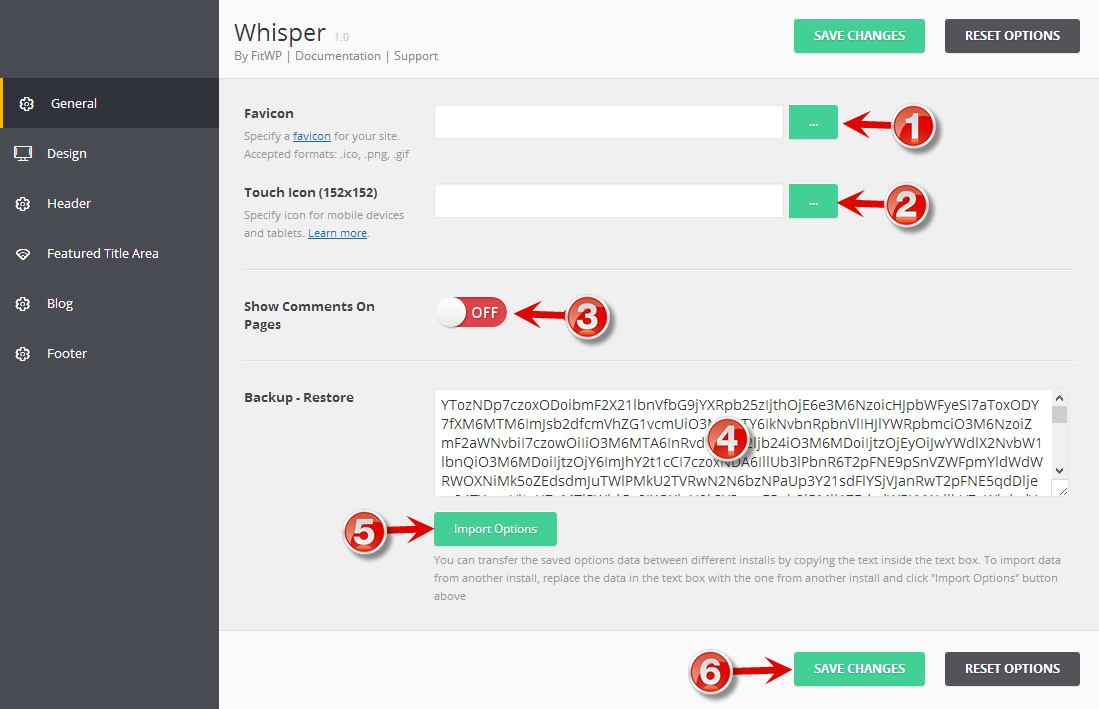
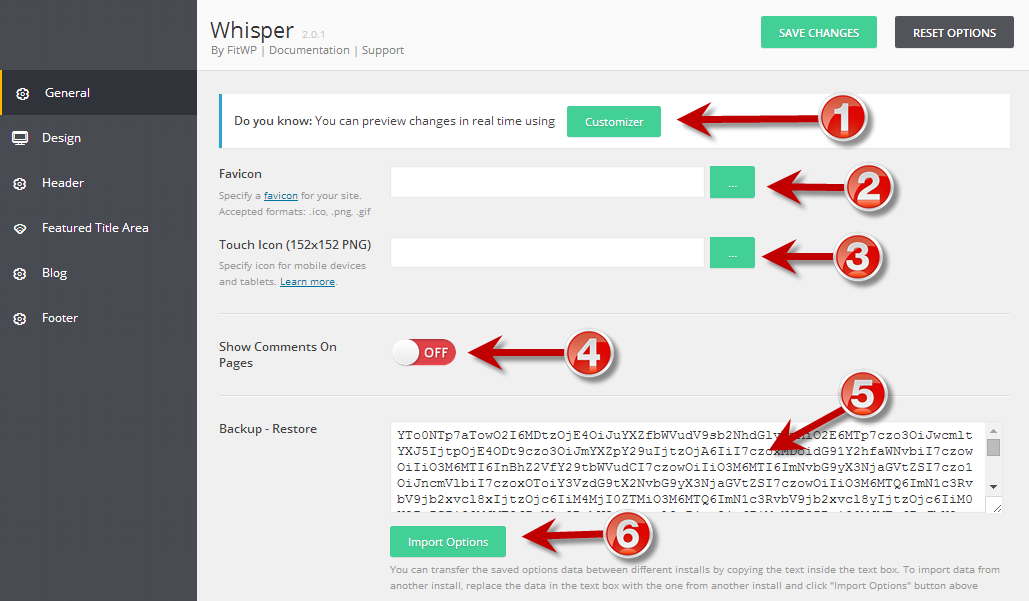
Customizer button, Posts, Portfolios

diff --git a/whisper/index.html b/whisper/index.html
@@ -240,10 +240,11 @@ General
 
 This sections contains:
 
-- **(1)**: favicon upload, allows you to upload favicon for you website
-- **(2)**: touch icon, allows you to upload icon for mobile devices and tablets
-- **(3)**: show comments on pages, allows you to show/hide comments and comment form on pages
-- **(4)**: backup - restore, allows you to backup Whisper options and restore them later
+- **(1)**: this is the button which shows quick link to **Customizer**, a new feature that allows you to preview changes in real time. Please read more about Customizer in Customizer section in this docs.
+- **(2)**: favicon upload, allows you to upload favicon for you website
+- **(3)**: touch icon, allows you to upload icon for mobile devices and tablets
+- **(4)**: show comments on pages, allows you to show/hide comments and comment form on pages
+- **(5)**: backup - restore, allows you to backup Whisper options and restore them later
 
 
 
@@ -1461,12 +1462,14 @@ This shortcode display latest posts from your blog on your pages **in a grid**. 
 **Attributes:**
 
 ```
+[posts title_wrap="1" title="Blog Posts" number="3" category="company-news" content_limit="25" more="Continue Reading" total_columns="12"]
 [posts title_wrap="1" title="Blog Posts" number="3" content_limit="30" more="Read more" total_columns="9"]
 ```
 
 - `title_wrap`: show a title for the shortcode or not? Value can be empty (not display) or `1` (display).
 - `title`: the title of the shortcode. Used only when `title_wrap` is set to `1`
 - `number`: number of blog posts to show
+- `category`: **slug** (*not* name or ID) of category where do you want to get posts from. If empty, then posts will be get from all categories.
 - `content_limit`: number of words of post content will be displayed.
 - `more`: read more link text
 - `total_columns`: the total columns of all blog posts will display. This value is used to calculate the column of each post.
@@ -1522,7 +1525,7 @@ If you want to display 4 portfolios, each post is 3 columns, then total columns 
 
 **Popup:**
 
-![portfolios](http://fitwp.github.io/docs/whisper/portfolios.png)
+![portfolios](http://fitwp.github.io/docs/whisper/shortcode-portfolios.png)
 
 In the popup, click **Advanced Button** to show more options for the shortcode.
 
